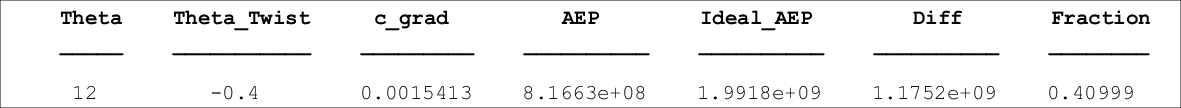
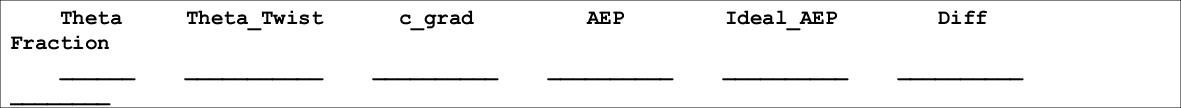
Extend full solution status and update statuses

diff --git a/lastSolution.m b/lastSolution.m
@@ -4,4 +4,4 @@ progressbar('Calculating Power', 'Solving Rotor', 'Finding Local Induced Flow', 
         [diff, AEP, S3] = WTVelocityRange(x, A, k, w, c_mean, Rmax, Rmin, 3, Vmin, Vmax);
         statustablematrix(S3,{'V0', 'Power', 'Probability', 'AEP', 'Ideal_AEP', 'Difference', 'Efficiency'},false,'Section 3 AEP Nodal Solution','figure',1.3);
         IAEP=sum(S3(:,5));
-        statustablematrix([xdeg(1), xdeg(2), xdeg(3), AEP,IAEP,(IAEP-AEP),(AEP/IAEP)],{'Theta','Theta_Twist','c_grad','AEP', 'Ideal_AEP', 'Diff', 'Fraction'},'status/optSol.png','Section 3 AEP Total Solution','figure',1.2);
+        statustablematrix([xdeg(1), xdeg(2), xdeg(3), AEP,IAEP,(IAEP-AEP),(AEP/IAEP)],{'Theta','Theta_Twist','c_grad','AEP', 'Ideal_AEP', 'Diff', 'Fraction'},'status/optSol.png','Section 3 AEP Total Solution','figure',1.3);
